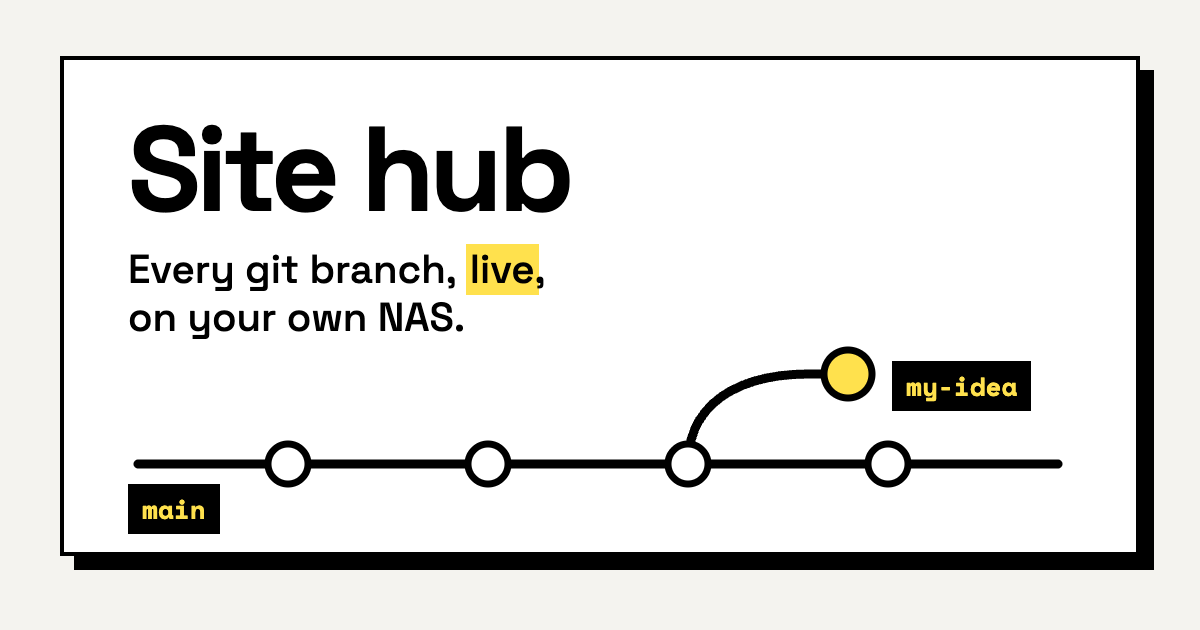
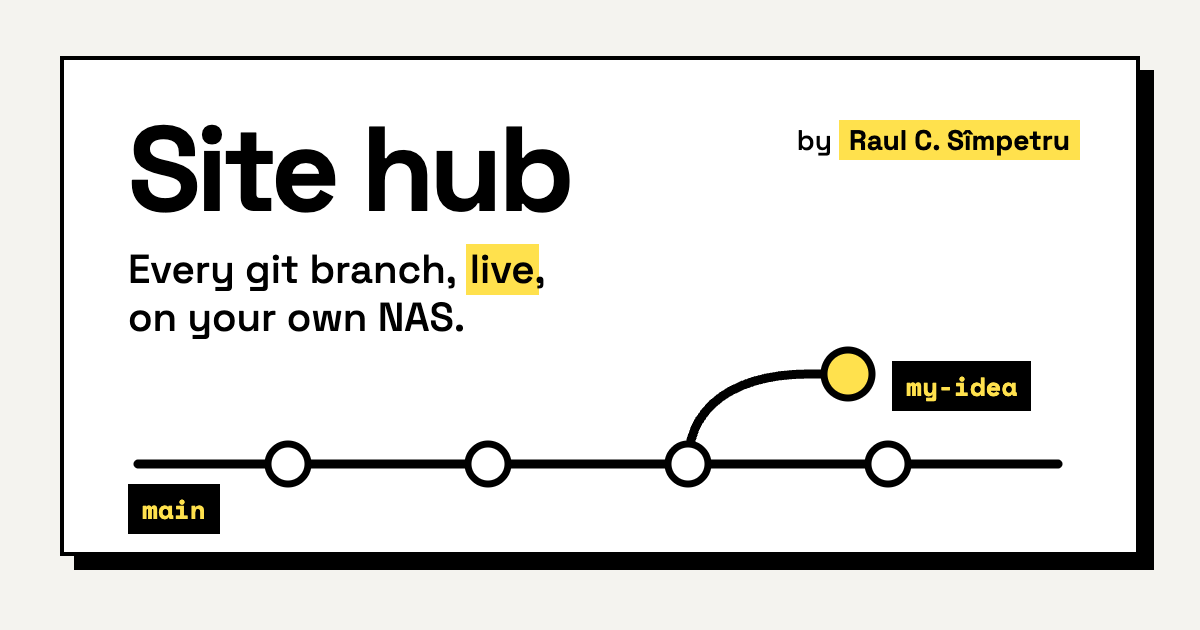
Preview picture: credit the author

Changed region(s): [[0.6475, 0.181, 0.925, 0.2714]]

diff --git a/router.ts b/router.ts
@@ -438,7 +438,7 @@ function previewCard(url: URL) {
   return new Response(`<!doctype html><html><head><meta charset="utf-8"><title>${esc(title)}</title>
 <meta property="og:title" content="${esc(title)}"><meta property="og:description" content="${esc(desc)}">
 <meta property="og:site_name" content="${esc(ORG || "Site hub")}"><meta property="og:type" content="website"><meta property="og:url" content="${esc(OIDC.hub + url.pathname)}">
-<meta property="og:image" content="${esc(OIDC.hub)}/_hub/og.png"><meta property="og:image:width" content="1200"><meta property="og:image:height" content="630">
+<meta property="og:image" content="${esc(OIDC.hub)}/_hub/og.png?v=2"><meta property="og:image:width" content="1200"><meta property="og:image:height" content="630">
 <meta property="og:image:alt" content="Site hub: every git branch, live, on your own NAS"><meta name="twitter:card" content="summary_large_image"><meta name="description" content="${esc(desc)}"></head><body>${esc(title)}</body></html>`, { headers: { "content-type": "text/html; charset=utf-8", "cache-control": "no-store" } });
 }
 

diff --git a/router.test.ts b/router.test.ts
@@ -203,5 +203,5 @@ test("the preview picture is public and the card points at it", async () => {
   expect(img.headers.get("content-type")).toBe("image/png");
   expect((await img.arrayBuffer()).byteLength).toBeGreaterThan(1000);
   const card = await (await handle(new Request("http://hub.test/r/b/", { headers: { "user-agent": "WhatsApp/2" } }))).text();
-  expect(card).toContain('<meta property="og:image" content="http://hub.test/_hub/og.png">');
+  expect(card).toContain('<meta property="og:image" content="http://hub.test/_hub/og.png?v=2">');
 });
